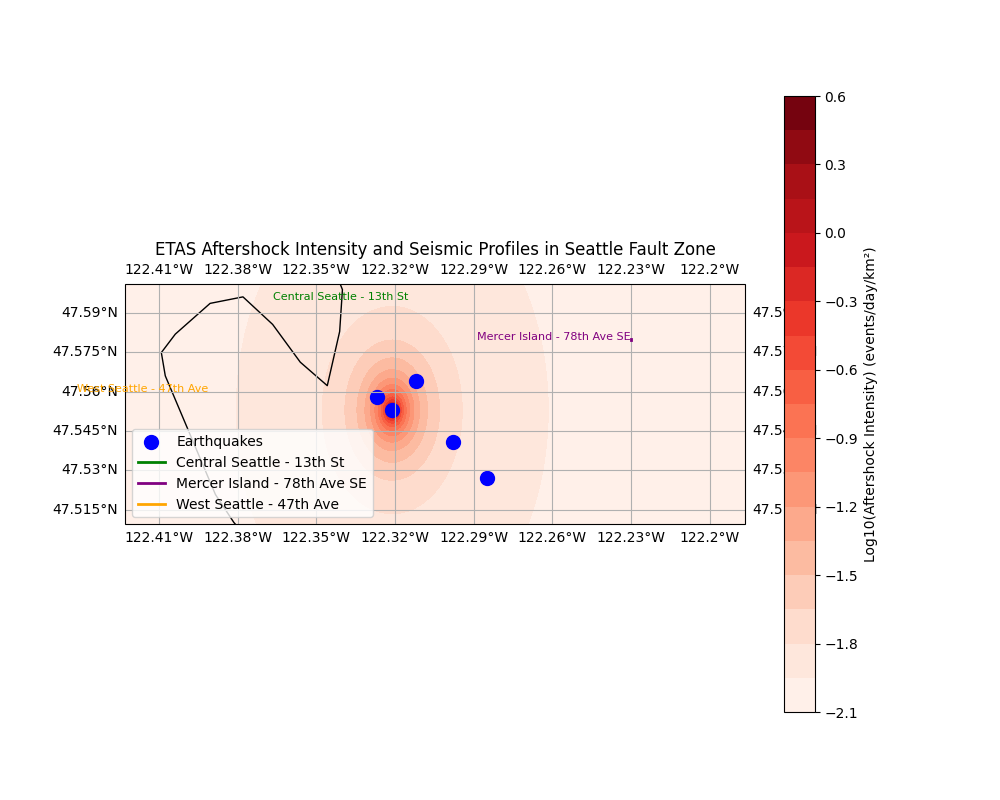
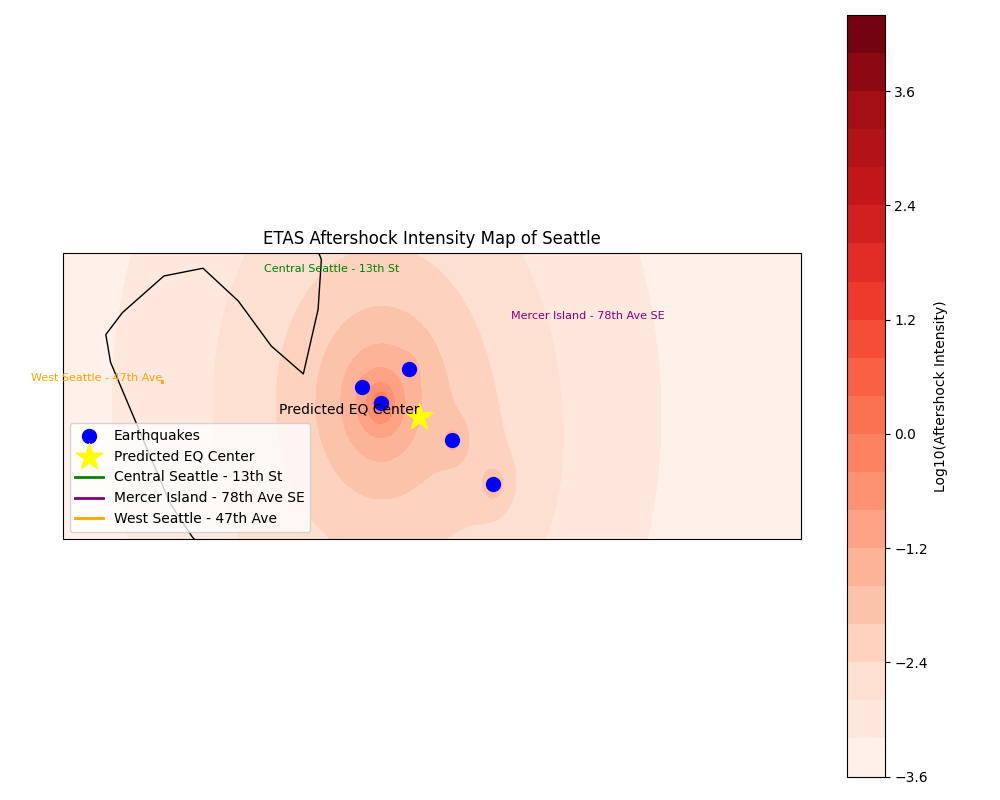
refactor(etas_map): enhance earthquake prediction and visualization
Improved the earthquake prediction model by integrating Gaussian KDE for location probability and updating the map visualization with OpenStreetMap tiles. Added mean earthquake location and recognizable places for better context. Expanded the map extent to cover a broader region of Seattle.

diff --git a/scripts/etas_map.py b/scripts/etas_map.py
@@ -3,33 +3,62 @@ import numpy as np
 import matplotlib.pyplot as plt
 import cartopy.crs as ccrs
 import cartopy.feature as cfeature
+from cartopy.io.img_tiles import OSM
+from scipy.stats import gaussian_kde
+from datetime import datetime
 
-df = pd.read_csv('data/seismic_data.csv')
+# Read the earthquake data
+df = pd.read_csv('data/Earthquakes in Seattle.csv')
+# Filter only earthquake data
+df = df[df['type'] == 'earthquake']
 
-eq_data = df[df['type'] == 'earthquake']
-eq_times = eq_data['time'].to_numpy()
-eq_locs = eq_data[['longitude', 'latitude']].to_numpy()
-eq_mags = eq_data['magnitude'].to_numpy()
+# Convert time to numeric (days since first event: 1903-03-14)
+df['time'] = pd.to_datetime(df['time'])
+first_event = df['time'].min()
+df['time_days'] = (df['time'] - first_event).dt.total_seconds() / (24 * 3600)
 
-station_data = df[df['type'] == 'station']
+# Extract earthquake data
+eq_times = df['time_days'].to_numpy()
+eq_locs = df[['longitude', 'latitude']].to_numpy()
+eq_mags = df['magnitude'].to_numpy()
+
+# Calculate mean earthquake location
+mean_eq_loc = np.mean(eq_locs, axis=0)
+print(f"Mean earthquake location: {mean_eq_loc[0]:.4f}°W, {mean_eq_loc[1]:.4f}°N")
+
+# Read station data (assuming synthetic data from previous CSV)
+station_data = pd.read_csv('data/seismic_data.csv')
+station_data = station_data[station_data['type'] == 'station']
 stations = station_data[['longitude', 'latitude']].to_numpy()
 profile_names = station_data['profile_name'].to_numpy()
 
+def predict_earthquake_locations(eq_locs, bandwidth=0.01):
+    kde = gaussian_kde(eq_locs.T, bw_method=bandwidth)
+    lon_range = np.linspace(-122.5, -122.1, 200)
+    lat_range = np.linspace(47.4, 47.7, 200)
+    lon_grid, lat_grid = np.meshgrid(lon_range, lat_range)
+    positions = np.vstack([lon_grid.ravel(), lat_grid.ravel()])
+    probability = kde(positions).reshape(lon_grid.shape)
+    return lon_grid, lat_grid, probability
+
 def compute_etas_intensity(eq_times, eq_locs, eq_mags, current_time):
-    lon_range = np.linspace(-122.4229, -122.1865, 200)
-    lat_range = np.linspace(47.5095, 47.60116, 200)
+    lon_range = np.linspace(-122.5, -122.1, 200)
+    lat_range = np.linspace(47.4, 47.7, 200)
     lon_grid, lat_grid = np.meshgrid(lon_range, lat_range)
 
-    mu = 0.01
-    k = 0.1
-    alpha = 1.0
-    c = 0.01
-    p = 1.0
-    d = 0.1
-    q = 2.0
-    M0 = 4.0
+    # ETAS parameters
+    mu = 0.01  # background rate
+    k = 0.1    # aftershock productivity
+    alpha = 1.0  # magnitude scaling
+    c = 0.01   # time offset
+    p = 1.0    # temporal decay
+    d = 0.1    # spatial scaling
+    q = 2.0    # spatial decay
+    M0 = 4.0   # reference magnitude
 
-    intensity = np.full_like(lon_grid, mu)
+    # Get predicted earthquake probability
+    _, _, eq_probability = predict_earthquake_locations(eq_locs)
+    intensity = np.full_like(lon_grid, mu) * eq_probability
     grid_points = np.stack([lon_grid.ravel(), lat_grid.ravel()], axis=1)
 
     for t_i, loc_i, M_i in zip(eq_times, eq_locs, eq_mags):
@@ -45,21 +74,32 @@ def compute_etas_intensity(eq_times, eq_locs, eq_mags, current_time):
     return lon_grid, lat_grid, intensity
 
 def plot_map(eq_locs, stations, profile_names, lon_grid, lat_grid, intensity):
-    plt.figure(figsize=(10, 8))
-    ax = plt.axes(projection=ccrs.PlateCarree())
-    ax.set_extent([-122.4229, -122.1865, 47.5095, 47.60116], crs=ccrs.PlateCarree())
+    # Set up the map with OpenStreetMap tiles
+    tiler = OSM()
+    fig = plt.figure(figsize=(12, 10))
+    ax = fig.add_subplot(111, projection=tiler.crs)
+    ax.set_extent([-122.5, -122.1, 47.4, 47.7], crs=ccrs.PlateCarree())
 
-    ax.add_feature(cfeature.LAND)
-    ax.add_feature(cfeature.OCEAN)
-    ax.add_feature(cfeature.COASTLINE)
-    ax.add_feature(cfeature.BORDERS, linestyle=':')
-    ax.gridlines(draw_labels=True)
+    # Add OSM tiles as a base layer
+    ax.add_image(tiler, 10)
 
-    plot = ax.contourf(lon_grid, lat_grid, np.log10(intensity + 1e-10), cmap='Reds', levels=20, transform=ccrs.PlateCarree())
-    plt.colorbar(plot, ax=ax, label='Log10(Aftershock Intensity)')
+    # Add geographic features
+    ax.add_feature(cfeature.COASTLINE, linewidth=0.5)
+    ax.add_feature(cfeature.RIVERS, linewidth=0.5, edgecolor='blue', alpha=0.5)
+    ax.add_feature(cfeature.LAKES, edgecolor='blue', alpha=0.5)
 
+    # Plot aftershock intensity
+    intensity_plot = ax.contourf(lon_grid, lat_grid, np.log10(intensity + 1e-10), cmap='Reds', levels=20, transform=ccrs.PlateCarree())
+    plt.colorbar(intensity_plot, ax=ax, label='Log10(Aftershock Intensity) (events/day/km²)')
+
+    # Plot earthquake locations
     ax.scatter(eq_locs[:, 0], eq_locs[:, 1], c='blue', s=100, marker='o', label='Earthquakes', transform=ccrs.PlateCarree())
 
+    # Plot mean earthquake location
+    ax.scatter(mean_eq_loc[0], mean_eq_loc[1], c='yellow', s=400, marker='*', label='Mean EQ Location', transform=ccrs.PlateCarree())
+    ax.text(mean_eq_loc[0], mean_eq_loc[1], 'Mean EQ Location', fontsize=10, ha='right', va='bottom', transform=ccrs.PlateCarree())
+
+    # Plot seismic profiles
     unique_profiles = np.unique(profile_names)
     colors = ['green', 'purple', 'orange']
     for idx, profile in enumerate(unique_profiles):
@@ -69,12 +109,29 @@ def plot_map(eq_locs, stations, profile_names, lon_grid, lat_grid, intensity):
         ax.text(profile_stations[mid_idx, 0], profile_stations[mid_idx, 1], profile, 
                 transform=ccrs.PlateCarree(), fontsize=8, ha='right', color=colors[idx])
 
-    plt.title('ETAS Aftershock Intensity and Seismic Profiles')
+    # Add recognizable places
+    places = {
+        'Seattle': (-122.33, 47.60),
+        'Bellevue': (-122.20, 47.61),
+        'Mercer Island': (-122.22, 47.57),
+        'Renton': (-122.21, 47.48),
+        'Lake Washington': (-122.26, 47.62)  # Approximate center
+    }
+    for place, (lon, lat) in places.items():
+        ax.text(lon, lat, place, transform=ccrs.PlateCarree(), fontsize=10, ha='left', va='bottom', color='black', weight='bold')
+
+    plt.title('ETAS Aftershock Intensity Map of Seattle Region')
     plt.legend()
+    plt.tight_layout()
     plt.savefig('outputs/etas_map.png')
     plt.show()
 
 if __name__ == "__main__":
-    current_time = 30.0
+    # Calculate current time in days since first event (1903-03-14 to 2025-05-13 22:27 PDT)
+    current_time = (datetime(2025, 5, 13, 22, 27) - first_event).total_seconds() / (24 * 3600)
+    
+    # Compute earthquake probability and ETAS intensity
     lon_grid, lat_grid, intensity = compute_etas_intensity(eq_times, eq_locs, eq_mags, current_time)
+    
+    # Plot the results
     plot_map(eq_locs, stations, profile_names, lon_grid, lat_grid, intensity)
